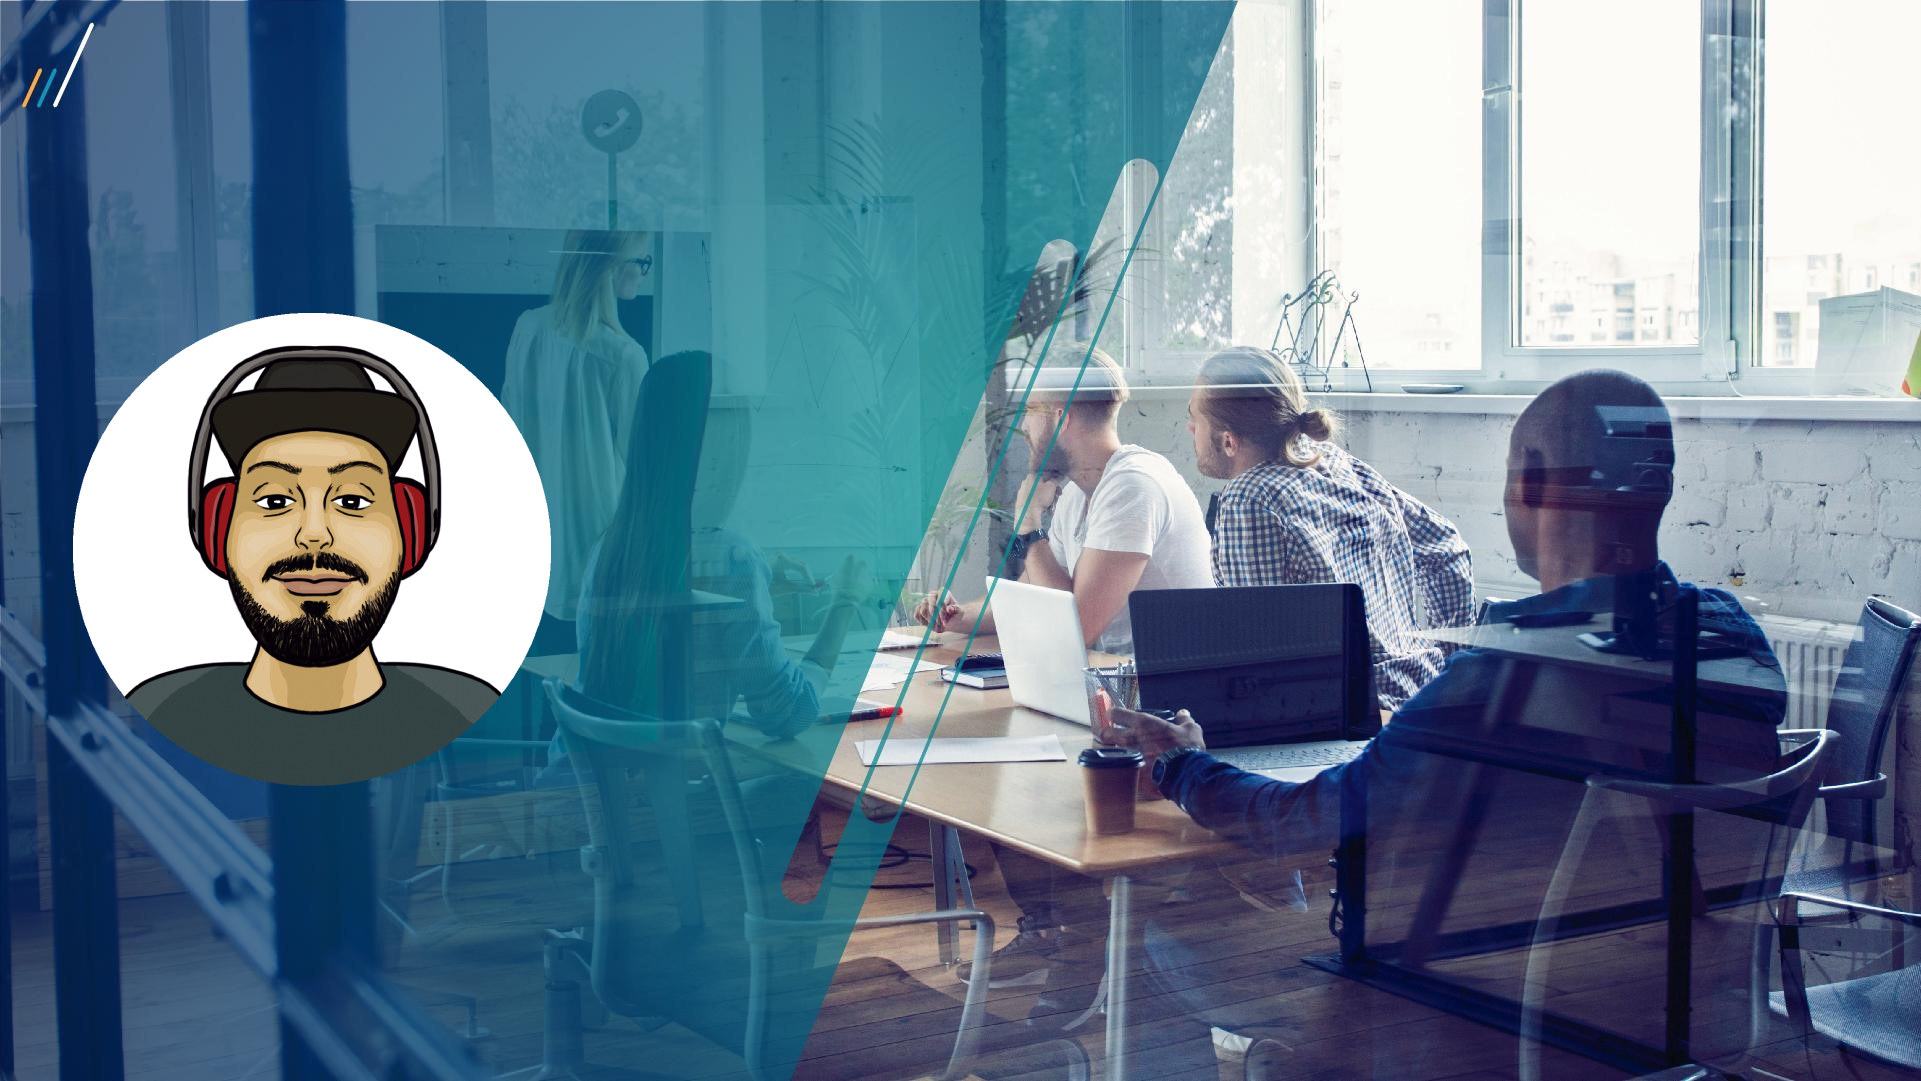
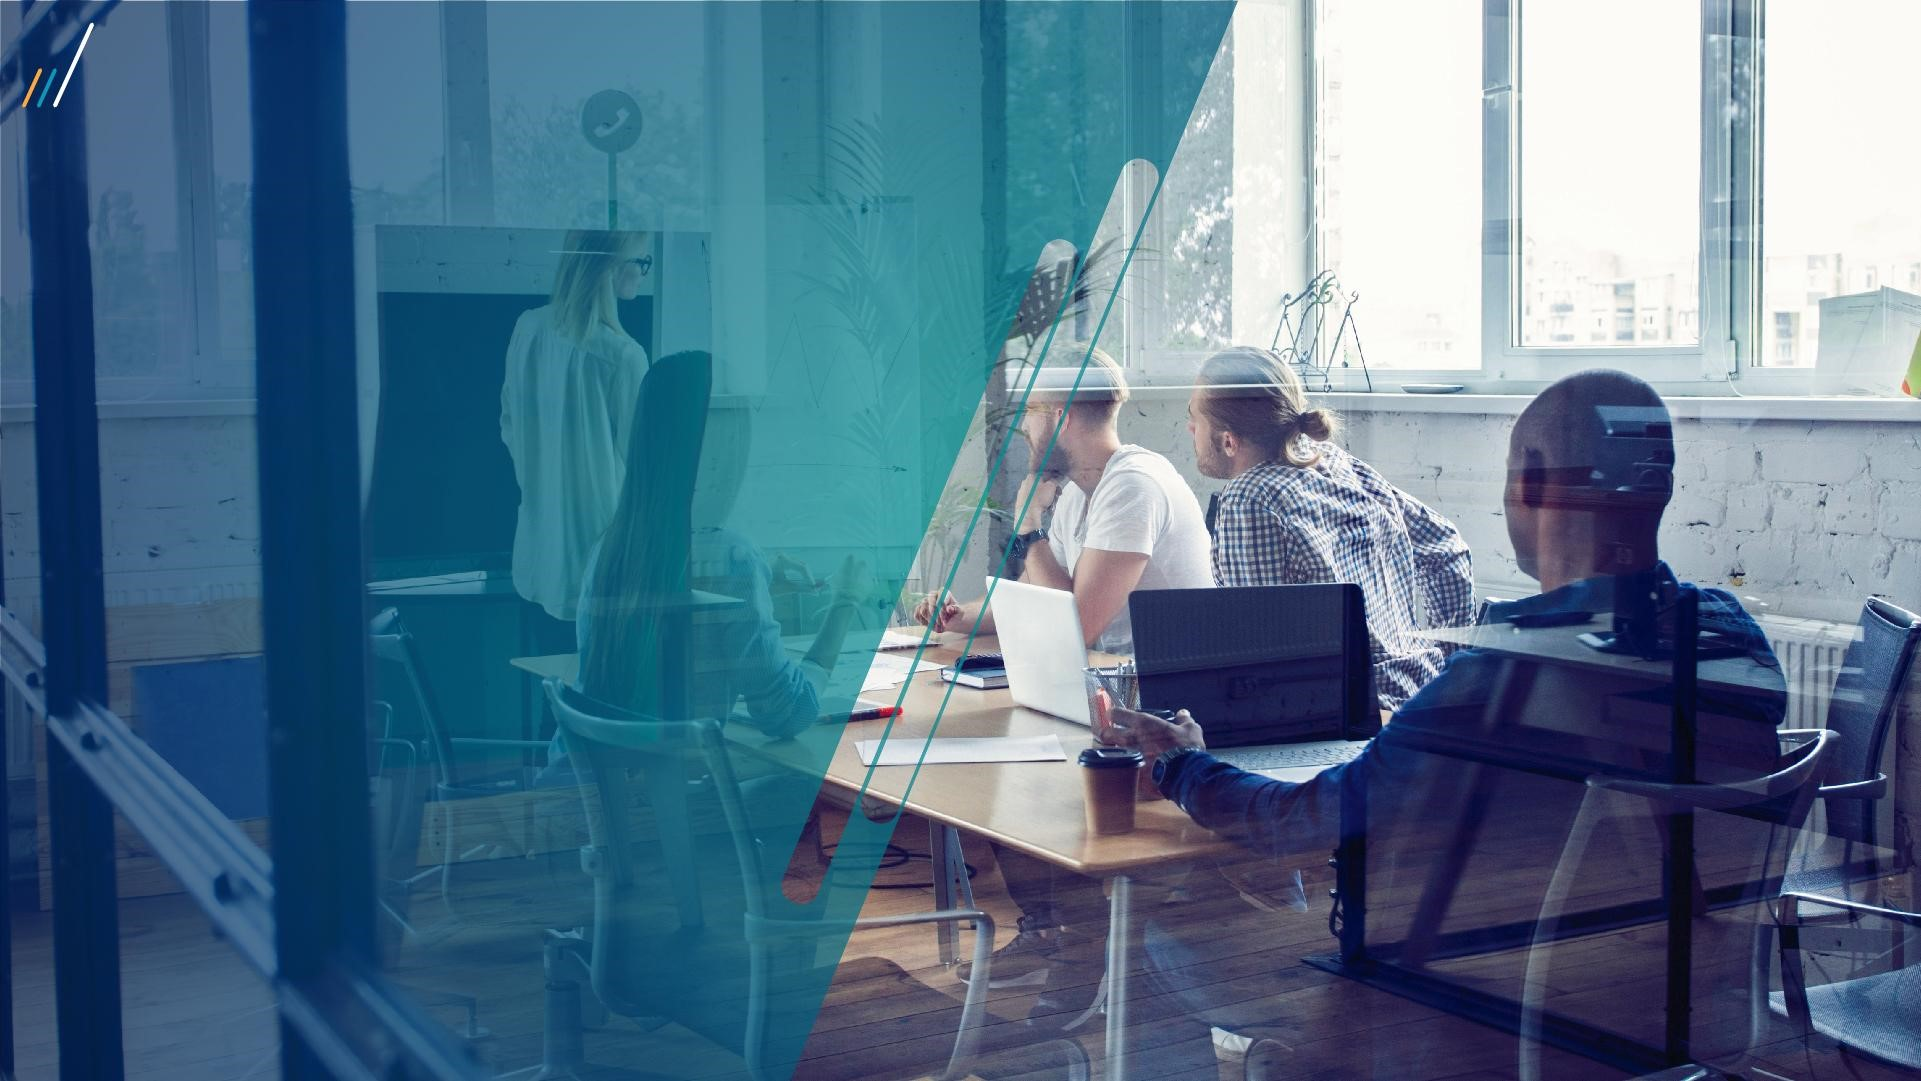
'profile'

Changed region(s): [[0.0312, 0.2747, 0.3123, 0.7327]]

diff --git a/_layouts/home.html b/_layouts/home.html
@@ -3,19 +3,9 @@ layout: default
 ---
 
 <style>
-  .user {
-  display: inline-block;
-  width: 150px;
-  height: 150px;
-  border-radius: 50%;
-
-  background-repeat: no-repeat;
-  background-position: center center;
-  background-size: cover;
-}
-
-.profile-img {
-  background-image: url('http://placehold.it/200x400');
+.profile--cover {
+  width: 30%;
+  height: 30%;
 }
 </style>
 
@@ -30,7 +20,7 @@ layout: default
       <div class="row">
         <div class="col-lg-8 col-md-10 mx-auto">
           <div class="site-heading">
-            <div class="profile-img"></div>
+            <img src="img/rounded.png" alt="" class="profile--cover" >
             <h1>{{ site.title }}</h1>
             {% if site.description %}
             <span class="subheading">{{ site.description }}</span>
@@ -66,8 +56,8 @@ layout: default
             {{ site.author }}
             {% endif %}
             em
-            
-            {{ post.date | date: '%d/%m/%Y' }} &middot; {% include read_time.html content=post.content %}            
+
+            {{ post.date | date: '%d/%m/%Y' }} &middot; {% include read_time.html content=post.content %}
           </p>
         </article>
 

diff --git a/_layouts/post.html b/_layouts/post.html
@@ -2,28 +2,10 @@
 layout: default
 ---
 
-<style>
-  .user {
-  display: inline-block;
-  width: 150px;
-  height: 150px;
-  border-radius: 50%;
-
-  background-repeat: no-repeat;
-  background-position: center center;
-  background-size: cover;
-}
-
-.profile-img {
-  background-image: url('http://placehold.it/200x400');
-}
-</style>
-
 <!-- Page Header -->
 {% if page.background %}
 <header class="masthead" style="background-image: url('{{ page.background | prepend: site.baseurl | replace: '//', '/' }}')">
   {% else %}
-  <div class="profile-img"></div>
   <header class="masthead" style="background-image: url('/img/Imagem2.jpg'); background-color: #3a243b;">
     {% endif %}
     <div class="overlay"></div>

diff --git a/about/index.html b/about/index.html
@@ -1,7 +1,6 @@
 ---
 layout: page
 title: Sobre
-description: Oi!.
 background: '/img/Imagem3.png'
 ---
 <p>
